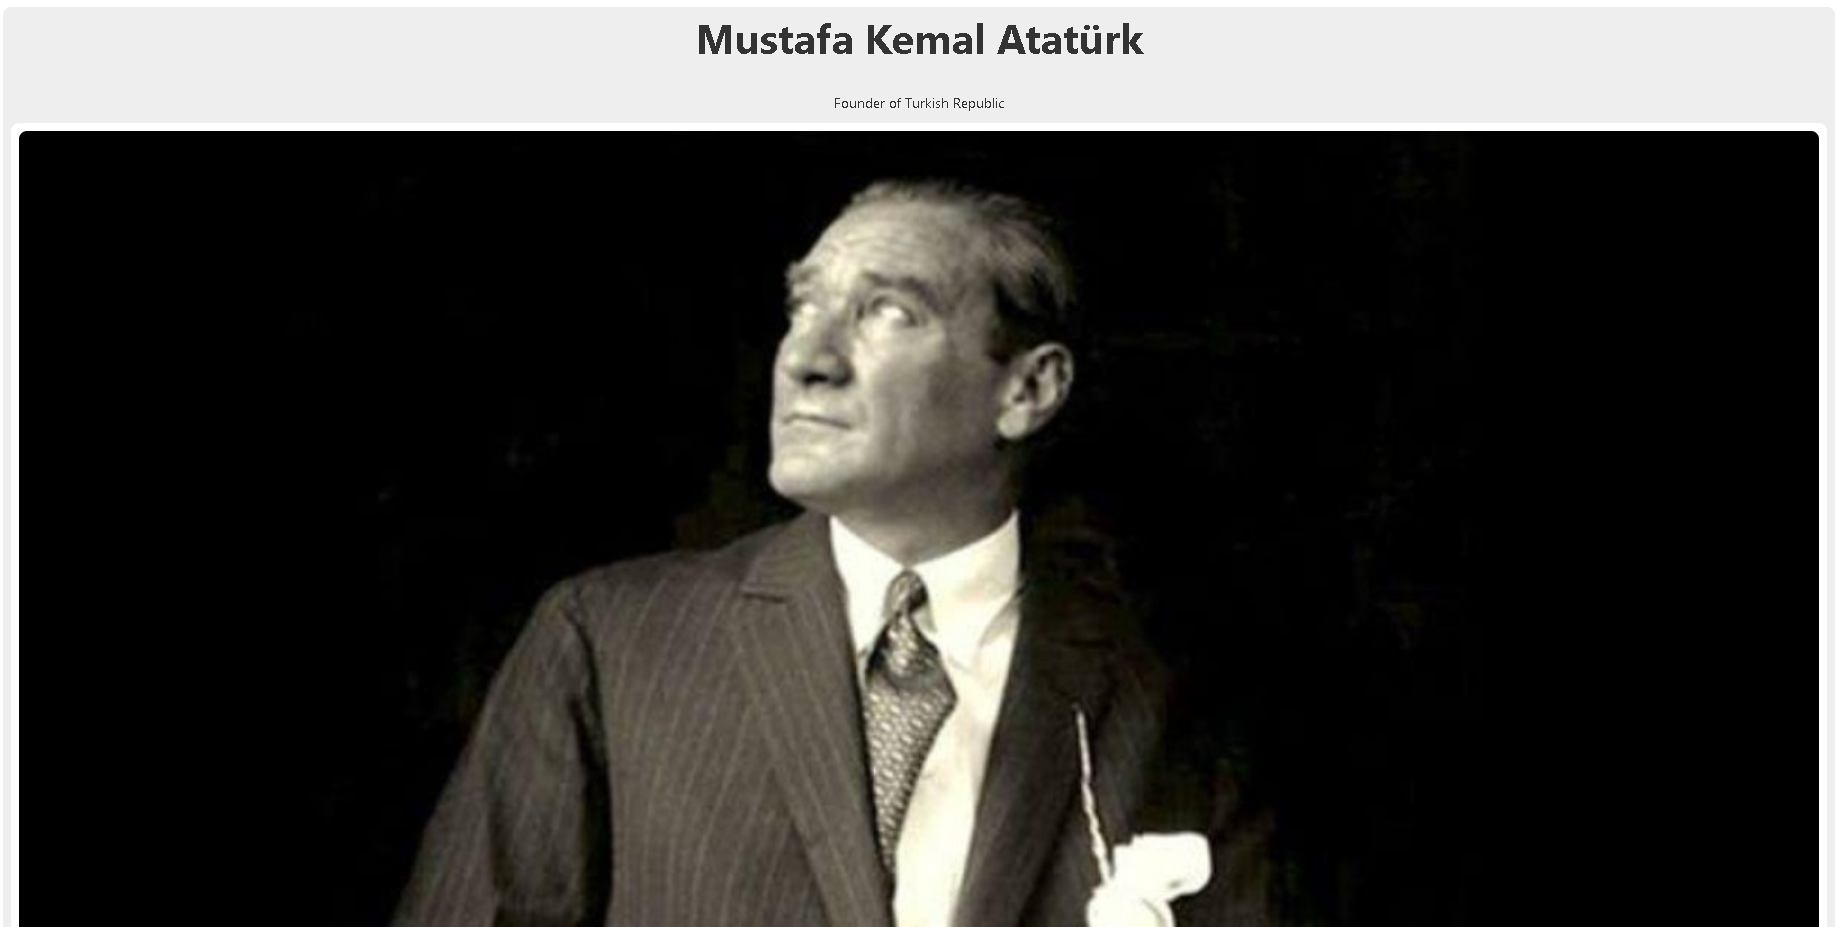
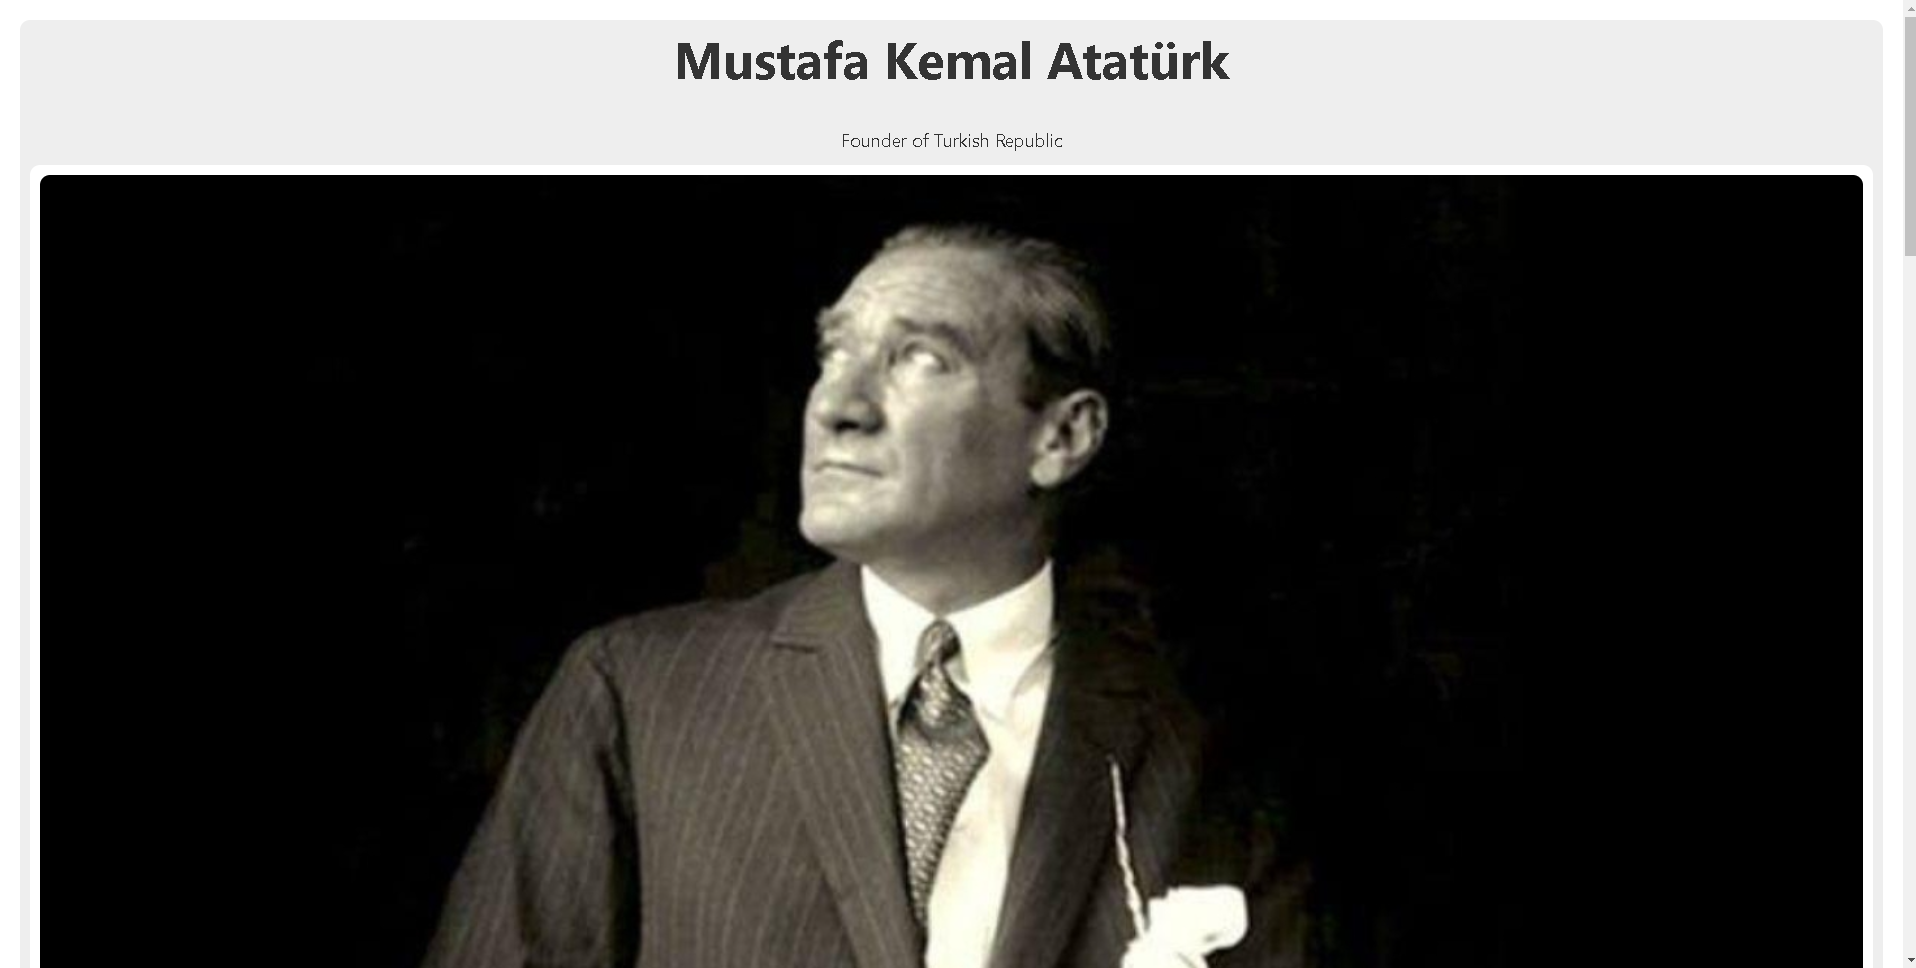
poerfolio webpage

diff --git a/Portfolio Webpage/style.css b/Portfolio Webpage/style.css
@@ -4,8 +4,8 @@
     box-sizing: border-box;
 }
 
-:root{
-
+body{
+    width: 100%;
 }
 #navbar{
     width: 100%;
@@ -55,24 +55,26 @@ nav ul li a:hover{
 .welcome-section h1{
     font-size: 3rem;
     color: black;
+    transition: all .5s;
 }
 .welcome-section p{
     font-size: 1.5rem;
     color: #666;
+    transition: all .5s;
 }
-
 .my-projects{
     width: 100%;
     height:auto;
     background-image: linear-gradient(to top,#8eacbb,#ffff52);
     text-align: center;
-    border-bottom: 1px solid black;
-    padding: 20px;
+    border-bottom: 1px solid #ffff52;
+    padding: 20px 20px;
 }
 .my-projects h2{
     text-align: center;
     text-decoration: underline;
-    padding: 10px;
+    font-size: 2rem;
+    transition: all .5s;
 }
 #showall{
     padding: 15px;
@@ -83,11 +85,12 @@ nav ul li a:hover{
 
 }
 .my-projects .proje{
-    width: 500px;
+    width: 400px;
     height: auto;
     position: relative;
     display: inline-block;
-    margin: 20px 50px;
+    flex-wrap: wrap;
+    margin: 50px 32px;
 
 }
 .my-projects .proje a img{
@@ -118,19 +121,18 @@ nav ul li a:hover{
 .contact-section h2{
     font-size: 3rem;
     color: white;
+    transition: all .5s;
 }
 .contact-section p{
     margin-top: 10px;
     font-size: 1.4rem;
     color: white;
-}
-.contact-section ul {
-    
+    transition: all .5s;
 }
 .contact-section ul li{
     display: inline-block;
     margin: 40px;
-    
+    transition: all .5s;
 }
 .contact-section ul li a{
     font-size: 1.5rem;
@@ -154,4 +156,53 @@ footer{
     align-items: center;
     padding: 0px 100px;
     color: white;
+    border-top: 3px solid #ffff52;
+}
+@media (max-width:1439px) {
+    .my-projects .proje .project-title{
+        font-size: 1.5rem;
+    }
+}
+@media (max-width:971px) {
+    nav ul li a{
+        font-size: 1.1rem;
+        padding: 8px;
+    }
+    .welcome-section h1{
+        font-size: 2.5rem;
+    }
+    .welcome-section p{
+        font-size: 1.3rem;
+    }
+    .my-projects .proje{
+        width: 80%;
+        margin: 20px 32px;
+    
+    }
+    .my-projects h2{
+        font-size: 1.5rem;
+    }
+    .contact-section h2{
+        font-size: 2.5rem;
+    }
+    .contact-section p{
+        font-size: 1.2rem;
+    }
+    .contact-section ul li{
+        margin: 20px;
+    }
+    .contact-section ul li a{
+        font-size: 1.1rem;
+    }
+    footer{
+        justify-content: center;
+    }
+}
+@media (max-width:567px) {
+    .welcome-section h1{
+        font-size: 1.8rem;
+    }
+    .welcome-section p{
+        font-size: 1rem;
+    }
 }

diff --git a/Portfolio Webpage/index.html b/Portfolio Webpage/index.html
@@ -10,9 +10,9 @@
 <body>
     <nav id="navbar">
         <ul>
-            <li><a href="">Portfolio</a></li>
-            <li><a href="">About</a></li>
-            <li><a href="">Contact</a></li>
+            <li><a href="#welcome-section">Portfolio</a></li>
+            <li><a href="#projects">About</a></li>
+            <li><a href="#contanct">Contact</a></li>
         </ul>
     </nav>
 <div class="container">
@@ -59,19 +59,19 @@
             </p>
         </div>
         <div class="proje">
-            <a href="#" target="_blank">
-                <img src="tribute page.png" alt="">
+            <a href="https://github.com/FRKN74/linkedin-clon/tree/main/linkedin" target="_blank">
+                <img src="linkedin-clone.png" alt="">
             </a>
             <p class="project-title">
-                Proje Name
+                Linkedin Clone
             </p>
         </div>
         <div class="proje">
-            <a href="#" target="_blank">
-                <img src="tribute page.png" alt="">
+            <a href="https://github.com/FRKN74/Vue-todo-app" target="_blank">
+                <img src="todoappVue.png" alt="">
             </a>
             <p class="project-title">
-                Project Name
+                VueJs TodoApp
             </p>
         </div>
 
